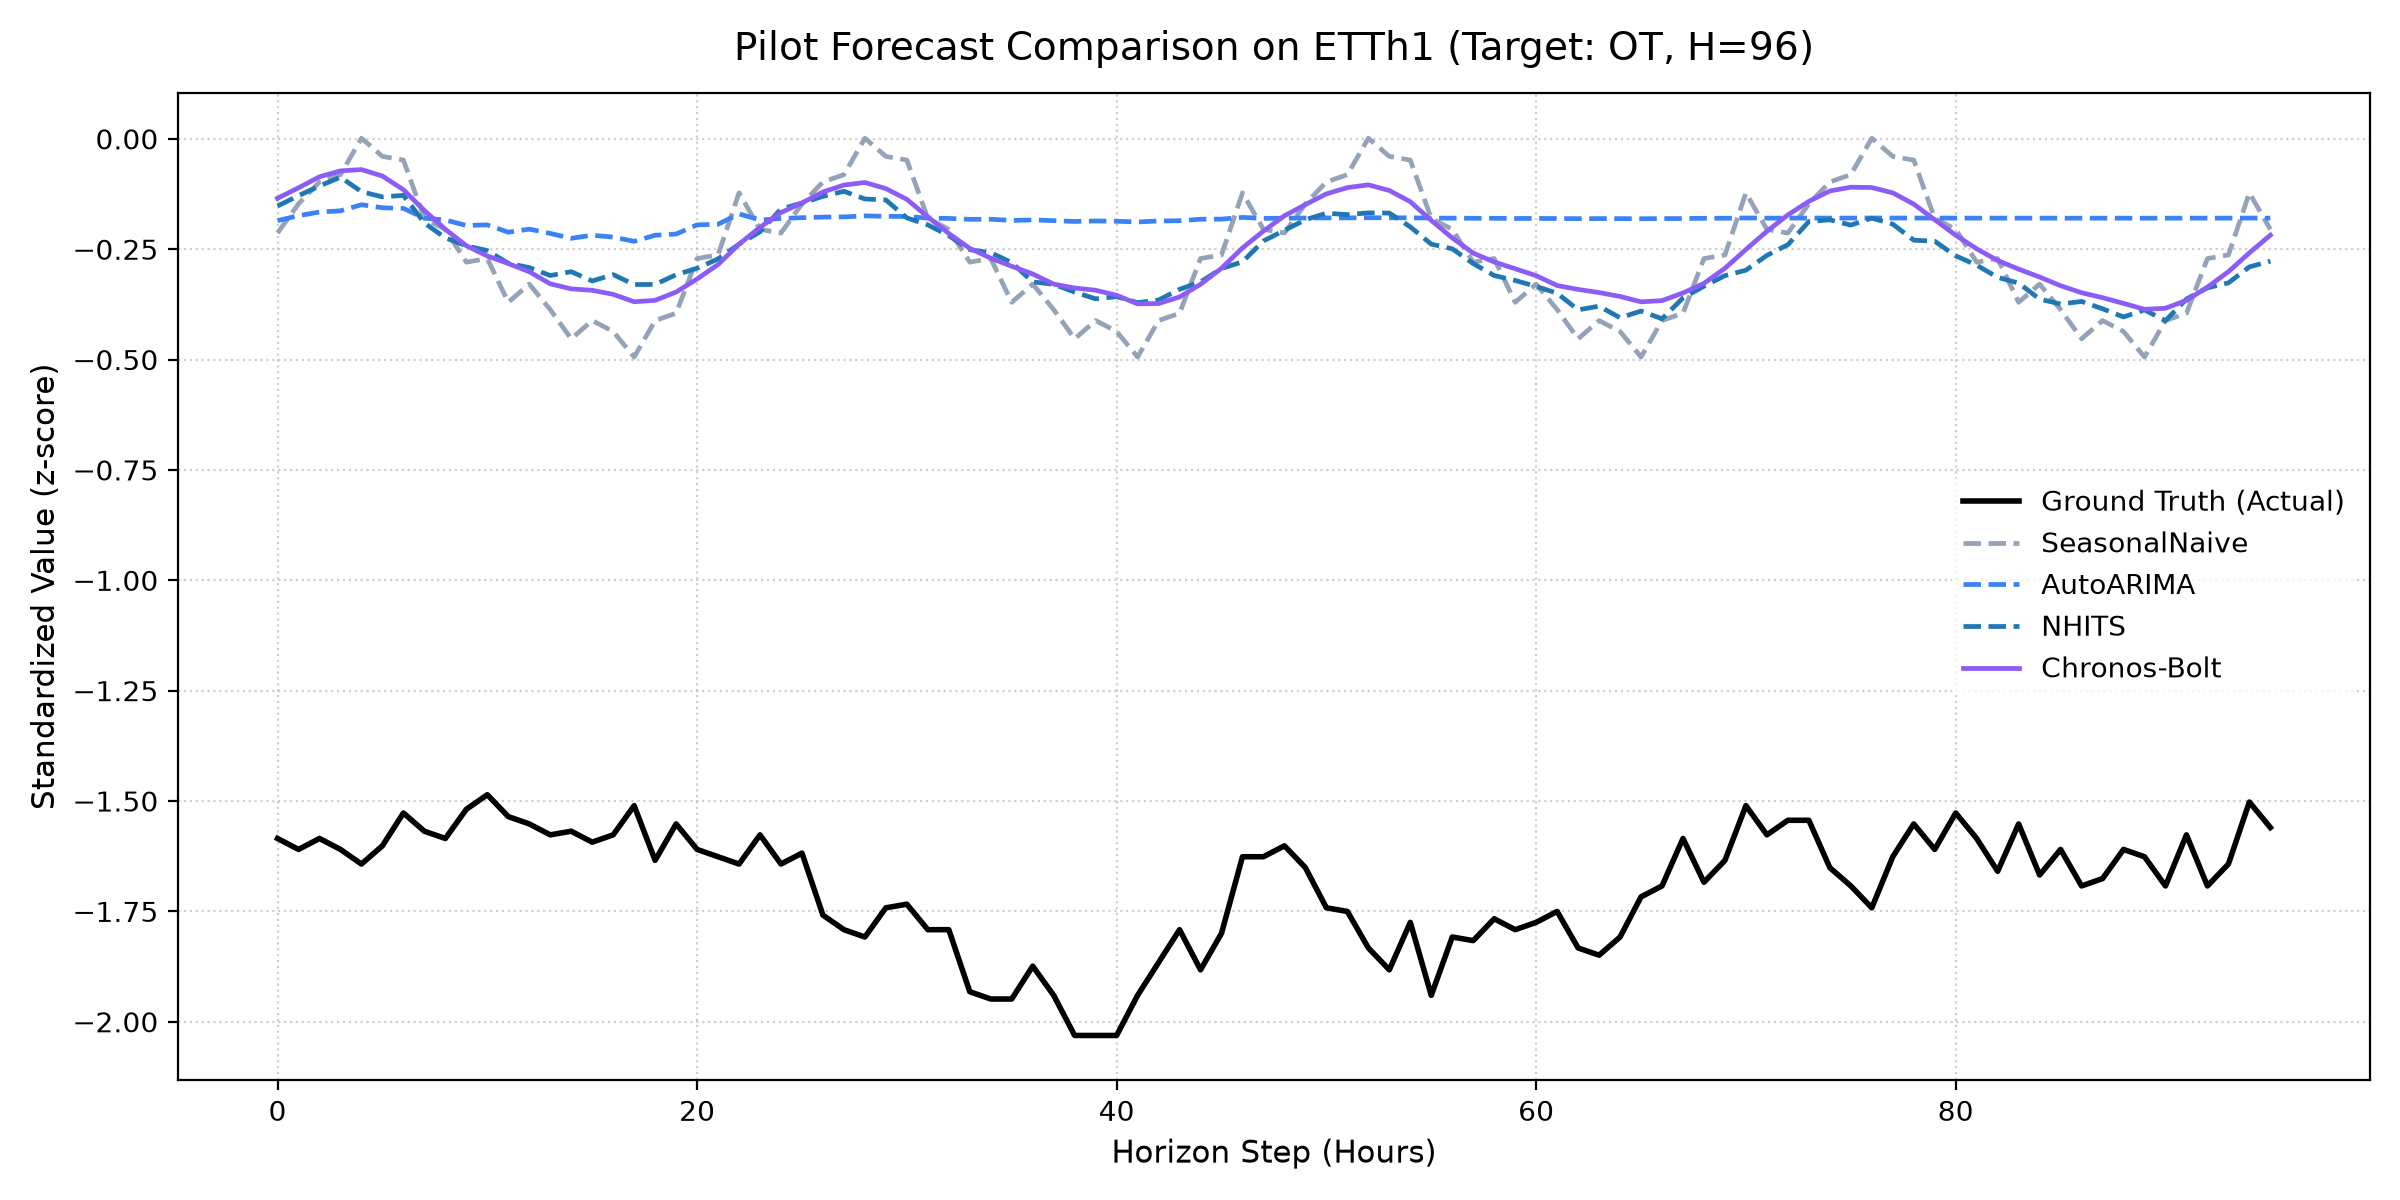
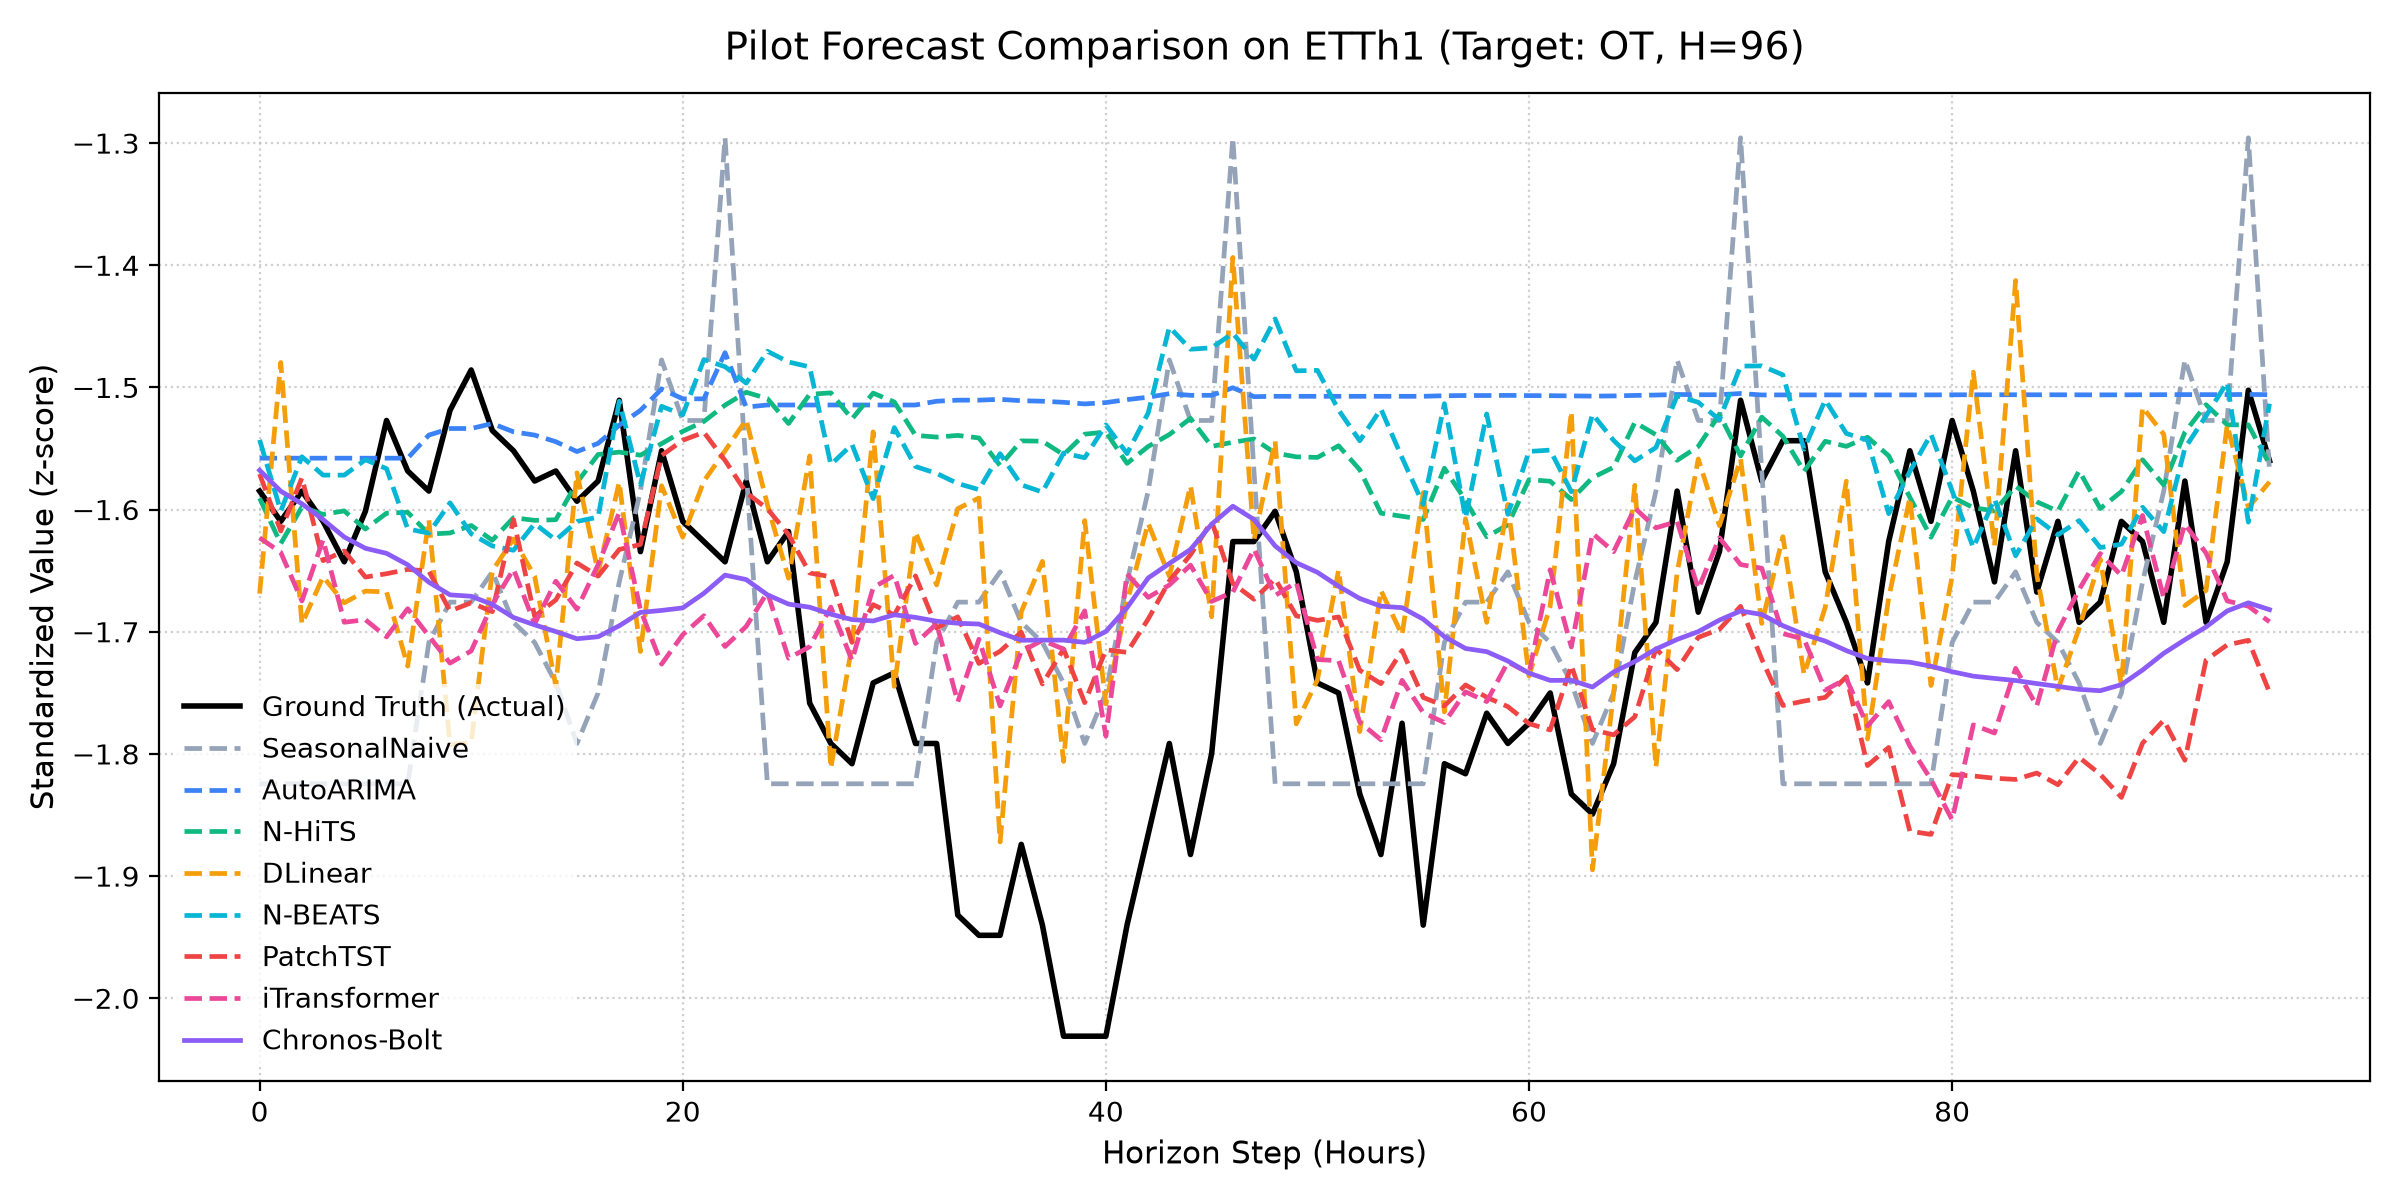
feat: integrate neural models for issue #1

diff --git a/scripts/run_pilot_benchmark.py b/scripts/run_pilot_benchmark.py
@@ -3,7 +3,7 @@
 
 Runs a quick pilot evaluation comparing:
 1. Statistical Baseline: SeasonalNaive / AutoARIMA (StatsForecast)
-2. MLP / Basis Expansion: N-HiTS (NeuralForecast)
+2. Linear / MLP and attention models (NeuralForecast)
 3. Foundation Model (Zero-Shot): Chronos-Bolt (Amazon)
 
 Evaluates on ETTh1 (target: OT) for horizon H=96.
@@ -25,6 +25,8 @@ import torch
 
 from ts_forecasting_benchmark.data import load_long_benchmark
 from ts_forecasting_benchmark.evaluation import compute_metrics
+from ts_forecasting_benchmark.models.neural import get_neural_models
+from ts_forecasting_benchmark.utils import get_device, set_seed
 
 
 def parse_args():
@@ -33,7 +35,20 @@ def parse_args():
     parser.add_argument("--target", type=str, default="OT", help="Target column name")
     parser.add_argument("--horizon", type=int, default=96, help="Forecast horizon (H)")
     parser.add_argument("--input-size", type=int, default=96, help="Lookback window (L)")
-    parser.add_argument("--nhits-steps", type=int, default=50, help="Max training steps for NHITS pilot")
+    parser.add_argument(
+        "--max-steps",
+        "--nhits-steps",
+        dest="max_steps",
+        type=int,
+        default=50,
+        help="Max training steps per neural model",
+    )
+    parser.add_argument(
+        "--accelerator",
+        choices=["cpu", "mps", "cuda"],
+        default=get_device().type,
+        help="Device for neural and foundation models",
+    )
     parser.add_argument(
         "--chronos-model",
         type=str,
@@ -45,6 +60,7 @@ def parse_args():
 
 def main():
     args = parse_args()
+    set_seed(42)
     print("=" * 70)
     print("🚀 STARTING PILOT TIME SERIES BENCHMARK")
     print(f"Dataset: {args.dataset} (Target: {args.target}) | Horizon H={args.horizon} | Lookback L={args.input_size}")
@@ -58,9 +74,7 @@ def main():
     print(f"  Test samples:  {len(data.test_df):,}")
     print(f"  Frequency:     {data.freq}")
 
-    # For pilot evaluation, test on the first test window of length H
-    # (or right after train + val)
-    val_and_test = pd.concat([data.val_df, data.test_df]).sort_values("ds").reset_index(drop=True)
+    history = pd.concat([data.train_df, data.val_df]).sort_values("ds").reset_index(drop=True)
     # Target ground truth for the first horizon of the test split
     ground_truth = data.test_df.iloc[: args.horizon].copy()
     y_true = ground_truth["y"].values
@@ -78,8 +92,8 @@ def main():
     ]
     sf = StatsForecast(models=stat_models, freq=data.freq, n_jobs=1)
     
-    # Fit on train data
-    sf.fit(df=data.train_df)
+    # Fit on history preceding the test split
+    sf.fit(df=history)
     stat_preds = sf.predict(h=args.horizon)
     stat_time = time.time() - t0
 
@@ -98,42 +112,49 @@ def main():
             })
             print(f"  ✅ {m_name:15s} -> MSE: {metrics['mse']:.4f} | MAE: {metrics['mae']:.4f}")
 
-    # 3. Deep Learning MLP: N-HiTS (NeuralForecast)
-    # TODO(models): Add DLinear, NBEATS, and PatchTST / iTransformer into the NeuralForecast ensemble
-    print("\n[3/5] 🧠 Running Deep Learning MLP: N-HiTS (NeuralForecast)...")
-    try:
-        from neuralforecast import NeuralForecast
-        from neuralforecast.models import NHITS
+    # 3. NeuralForecast models
+    print("\n[3/5] 🧠 Running neural models (MLP / Linear & Attention)...")
+    from neuralforecast import NeuralForecast
 
-        t0 = time.time()
-        # Train on train_df
-        nhits_model = NHITS(
-            h=args.horizon,
-            input_size=args.input_size,
-            max_steps=args.nhits_steps,
-            batch_size=64,
-            learning_rate=1e-3,
-        )
-        nf = NeuralForecast(models=[nhits_model], freq=data.freq)
-        nf.fit(df=data.train_df, val_size=args.horizon)
-        nhits_preds = nf.predict()
-        nhits_time = time.time() - t0
-
-        if "NHITS" in nhits_preds.columns:
-            y_pred = nhits_preds["NHITS"].values[: args.horizon]
+    models = get_neural_models(
+        h=args.horizon,
+        input_size=args.input_size,
+        max_steps=args.max_steps,
+        n_series=data.train_df["unique_id"].nunique(),
+        accelerator=args.accelerator,
+    )
+    for model in models:
+        name = str(model)
+        try:
+            t0 = time.time()
+            nf = NeuralForecast(models=[model], freq=data.freq)
+            nf.fit(df=data.train_df, val_size=args.horizon)
+            preds = nf.predict(df=history)
+            model_time = time.time() - t0
+            aligned = ground_truth.merge(preds, on=["unique_id", "ds"], validate="one_to_one")
+            if len(aligned) != args.horizon:
+                raise ValueError("Forecast dates do not match the test horizon")
+            y_pred = aligned[name].to_numpy()
+            y_true = aligned["y"].to_numpy()
             metrics = compute_metrics(y_true, y_pred)
-            forecasts["NHITS"] = y_pred
-            results.append({
-                "Model": "N-HiTS",
-                "Paradigm": "Deep Learning (MLP)",
-                "MSE": metrics["mse"],
-                "MAE": metrics["mae"],
-                "Time (s)": round(nhits_time, 2),
-                "Zero-Shot": False,
-            })
-            print(f"  ✅ {'N-HiTS':15s} -> MSE: {metrics['mse']:.4f} | MAE: {metrics['mae']:.4f} (trained in {nhits_time:.1f}s)")
-    except Exception as e:
-        print(f"  ❌ Error running N-HiTS: {e}")
+            forecasts[name] = y_pred
+            results.append(
+                {
+                    "Model": name,
+                    "Paradigm": "Deep Learning (Attention)"
+                    if name in {"PatchTST", "iTransformer"}
+                    else "Deep Learning (MLP / Linear)",
+                    "MSE": metrics["mse"],
+                    "MAE": metrics["mae"],
+                    "Time (s)": round(model_time, 2),
+                    "Zero-Shot": False,
+                }
+            )
+            print(
+                f"  ✅ {name:15s} -> MSE: {metrics['mse']:.4f} | MAE: {metrics['mae']:.4f} (fit + predict in {model_time:.1f}s)"
+            )
+        except Exception as e:
+            print(f"  ❌ Error running {name}: {e}")
 
     # 4. Foundation Model Zero-Shot: Chronos-Bolt
     print("\n[4/5] 🔮 Running Foundation Model: Chronos-Bolt (Zero-Shot)...")
@@ -141,7 +162,7 @@ def main():
         from chronos import ChronosBoltPipeline
 
         t0 = time.time()
-        device = "cuda" if torch.cuda.is_available() else ("mps" if torch.backends.mps.is_available() else "cpu")
+        device = args.accelerator
         print(f"  Loading Chronos-Bolt pipeline ({args.chronos_model}) on {device}...")
         pipeline = ChronosBoltPipeline.from_pretrained(
             args.chronos_model,
@@ -150,7 +171,7 @@ def main():
         )
 
         # Context: last `input_size` points from training/val before the test horizon
-        context_series = data.train_df["y"].values[-args.input_size :]
+        context_series = history["y"].values[-args.input_size :]
         context_tensor = torch.tensor(context_series, dtype=torch.float32).unsqueeze(0)
 
         # Zero-shot prediction (no training!)
@@ -206,6 +227,7 @@ def main():
     plt.plot(time_steps, y_true, label="Ground Truth (Actual)", color="black", linewidth=2.0)
 
     colors = {"SeasonalNaive": "#94a3b8", "AutoARIMA": "#3b82f6", "N-HiTS": "#10b981", "Chronos-Bolt": "#8b5cf6"}
+    colors.update({"DLinear": "#f59e0b", "N-BEATS": "#06b6d4", "PatchTST": "#ef4444", "iTransformer": "#ec4899"})
     for name, pred in forecasts.items():
         plt.plot(
             time_steps,

diff --git a/src/ts_forecasting_benchmark/models/neural.py b/src/ts_forecasting_benchmark/models/neural.py
@@ -1,0 +1,30 @@
+"""NeuralForecast models used in the benchmark."""
+
+from neuralforecast.models import NBEATS, NHITS, DLinear, PatchTST, iTransformer
+
+
+def get_neural_models(
+    h: int = 96,
+    input_size: int = 96,
+    max_steps: int = 50,
+    n_series: int = 1,
+    accelerator: str = "cpu",
+):
+    """Create linear, MLP, and attention models with shared pilot settings."""
+    params = {
+        "h": h,
+        "input_size": input_size,
+        "max_steps": max_steps,
+        "batch_size": 64,
+        "learning_rate": 1e-3,
+        "random_seed": 42,
+        "accelerator": accelerator,
+        "devices": 1,
+    }
+    return [
+        NHITS(alias="N-HiTS", **params),
+        DLinear(**params),
+        NBEATS(alias="N-BEATS", **params),
+        PatchTST(**params),
+        iTransformer(n_series=n_series, **params),
+    ]

diff --git a/src/ts_forecasting_benchmark/models/__init__.py b/src/ts_forecasting_benchmark/models/__init__.py
@@ -9,5 +9,4 @@ Paradigms:
 
 # TODO(models): Implement modular model registry/factory in src/ts_forecasting_benchmark/models/
 #   - statistical.py: get_statistical_models(freq, season_length)
-#   - neural.py: get_neural_models(h, input_size, accelerator)
 #   - foundation.py: get_chronos_pipeline(model_id, device)

diff --git a/README.md b/README.md
@@ -50,6 +50,22 @@ uv run python scripts/verify_datasets.py
 ```
 Powinieneś zobaczyć zielone komunikaty `✅ OK` dla wszystkich 7 zbiorów danych oraz dla loadera Monash.
 
+### Pilot benchmark
+
+Pilot porównuje `SeasonalNaive`, `AutoARIMA`, `N-HiTS`, `DLinear`, `N-BEATS`,
+`PatchTST`, `iTransformer` i `Chronos-Bolt` na ETTh1 (target `OT`, H=96, L=96).
+Modele neuronowe są konfigurowane w `src/ts_forecasting_benchmark/models/neural.py`.
+
+```bash
+uv run python scripts/run_pilot_benchmark.py --accelerator cpu --max-steps 50
+```
+
+Na Apple Silicon użyj `--accelerator mps`, a na karcie NVIDIA `--accelerator cuda`.
+Bez tej opcji urządzenie jest wybierane automatycznie. `--max-steps` ustawia liczbę
+kroków treningu każdego modelu neuronowego (dotychczasowe `--nhits-steps` nadal działa).
+Prognozy dotyczą pierwszych 96 punktów testu i korzystają z historii do końca walidacji.
+Metryki i wykres trafiają do `results/metrics/` i `results/figures/`.
+
 ---
 
 ## 📂 Gdzie co znaleźć? (Przewodnik po Strukturze)
